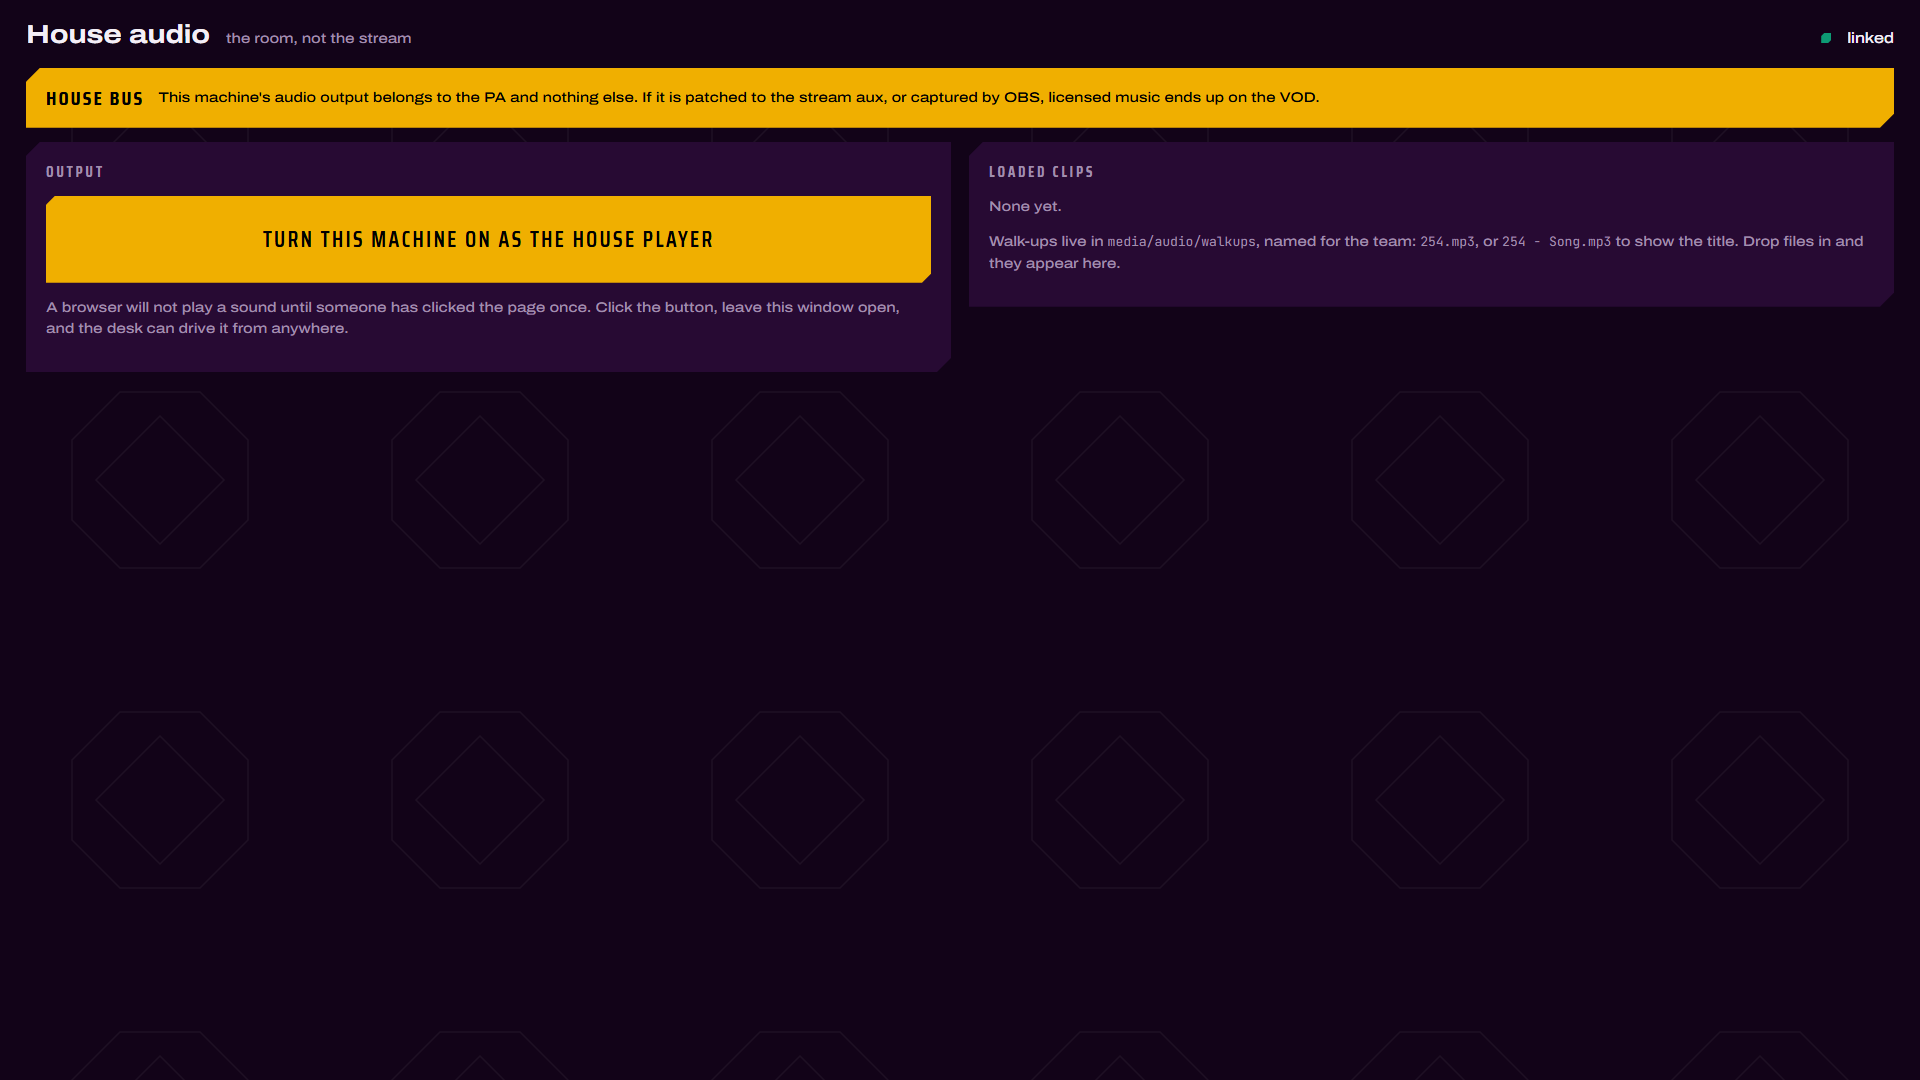
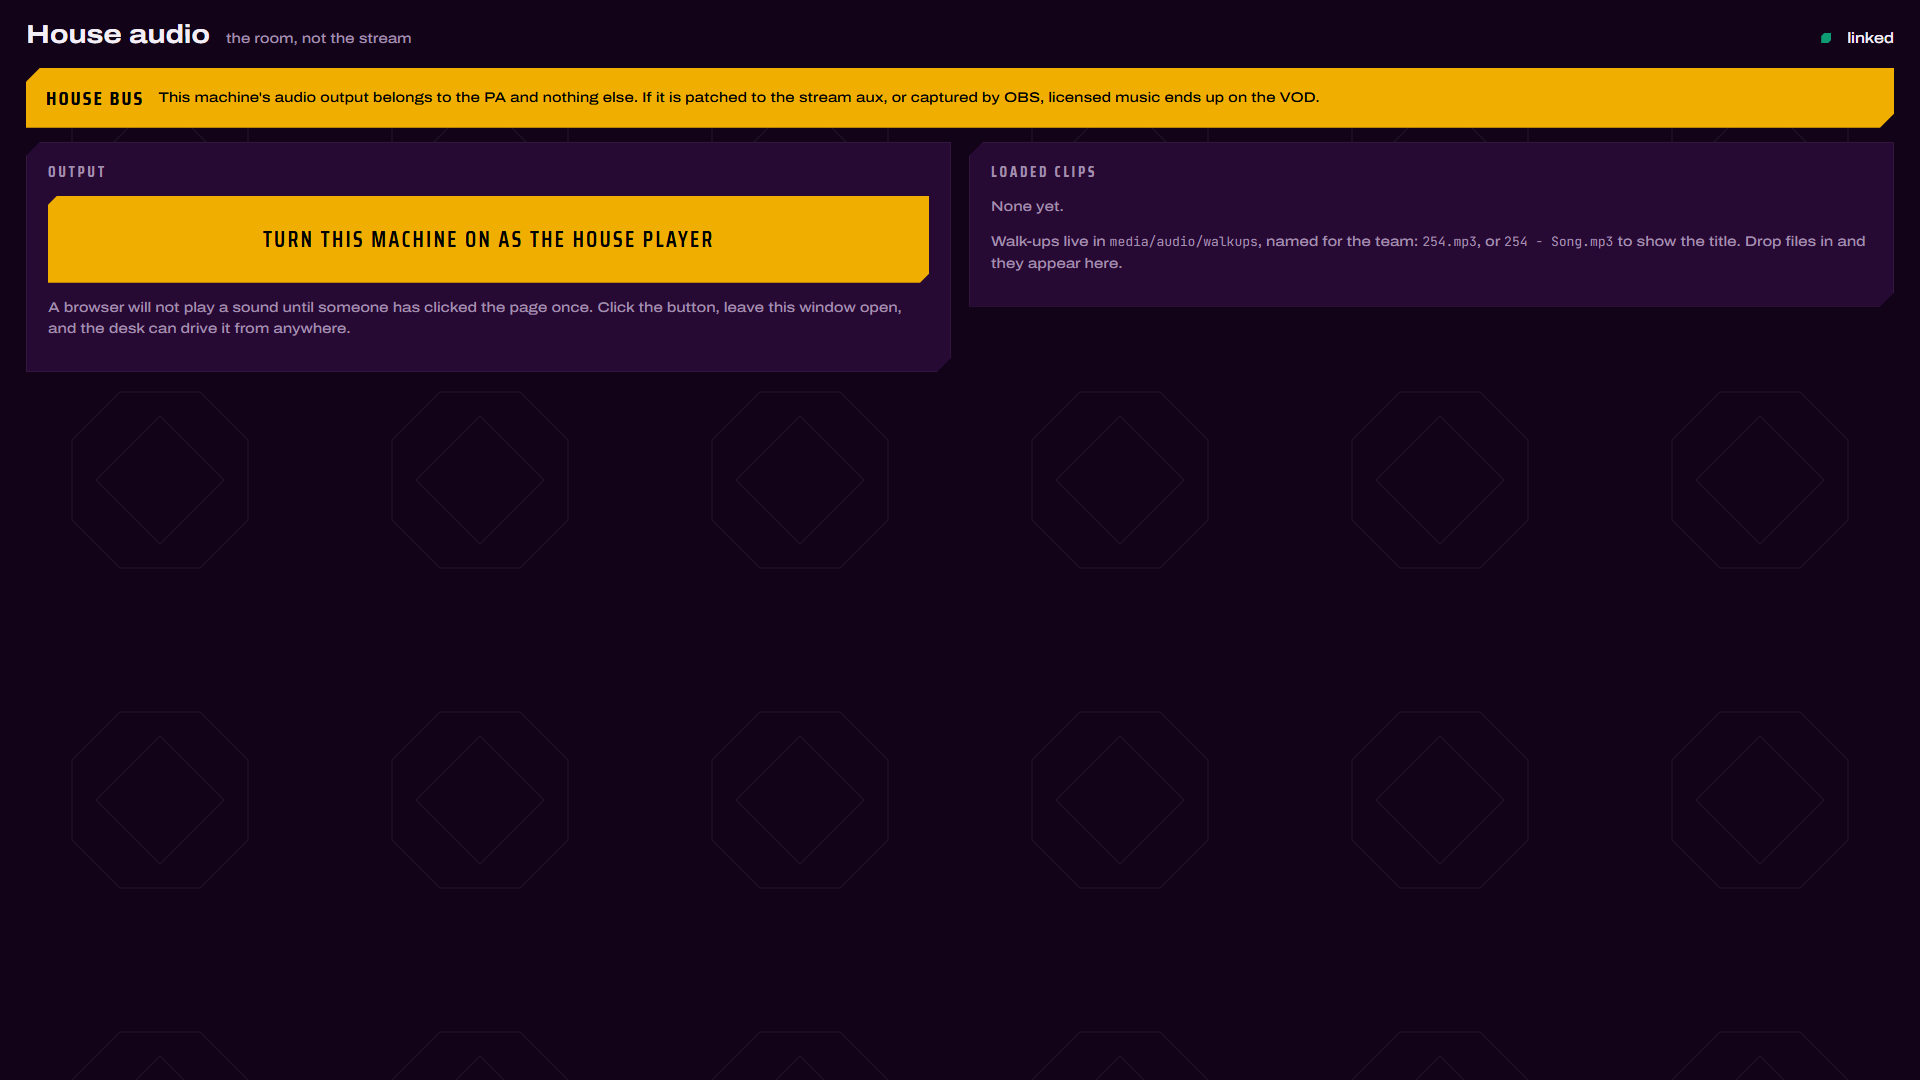
Buttons rest calm and light up on approach; panels get a hairline edge
The premium pass on the console chrome. The default button face was raw
purple-hi, so every secondary control shouted at parity with the gold
primaries, and hover went DARKER, which reads as already-pressed. The
resting face now sits one step above the panel, hover lifts toward the
light, and gold is reserved for primaries, pressed states, and live
chips, which is exactly what makes gold legible as "the one that
matters" on a console with sixty controls.

Sections gain a one-pixel light hairline (the cheapest precision a dark
UI can buy), micro-padding evens out, and operators who ask their OS for
reduced motion get it: console transitions and decorative pulses collapse
to instant, scoped away from the broadcast pages, where motion is
editorial program output.

33 previews re-rendered.

Changed region(s): [[0.5, 0.1528, 0.9688, 0.275], [0.0312, 0.275, 0.4688, 0.3056], [0.0312, 0.1528, 0.0625, 0.1833]]

diff --git a/packages/theme/tokens.css b/packages/theme/tokens.css
@@ -230,7 +230,14 @@
   --rule:           3px solid var(--cg-gold);
   --atmo:           none;
   --tex-perf:       radial-gradient(circle at center, rgba(255,255,255,.03) 1.4px, transparent 1.5px);
-  --btn-hover:      #3A1349;
+  /* Buttons rest CALM and light up on approach. The old face was raw
+     purple-hi (#7B2394): every secondary control shouted at parity with the
+     gold primaries, and hover went DARKER, which reads as already-pressed.
+     Resting face sits one step above the panel; hover lifts toward the
+     light; gold stays reserved for primaries and pressed state, which is
+     what makes it legible as "the one that matters". */
+  --btn-face:       #331040;
+  --btn-hover:      #4B1A5E;
   --focus-ring:     var(--cg-gold-hi);
   /* Error text on console purples. Lightened past the official alliance red
      because #ED1C24 reads 4.1:1 on --surface-raised (and only 2.9:1 on brand
@@ -272,9 +279,27 @@
 :root[data-surface="console"] .wrap { padding: 20px 26px 64px; }
 :root[data-surface="console"] .wrap > header { gap: 16px; margin-bottom: 18px; }
 :root[data-surface="console"] h1 { font-size: 26px; }
-:root[data-surface="console"] section { padding: 18px 20px; margin-bottom: 16px; }
+:root[data-surface="console"] section { padding: 18px 22px; margin-bottom: 16px;
+  /* A one-pixel light hairline instead of relying on fill contrast alone:
+     panel edges stay defined even where two purples sit close, and the line
+     is the cheapest kind of precision a dark UI can buy. */
+  box-shadow: inset 0 0 0 1px rgba(255, 255, 255, .05); }
 :root[data-surface="console"] section h2 { margin: 0 0 12px; }
 :root[data-surface="console"] .row { gap: 10px; }
+
+/* Operators who ask their OS for less motion get it: transitions and the
+   console's decorative pulses collapse to instant. Scoped to the consoles
+   because the broadcast pages are program output, where entrance motion is
+   editorial and the viewer's OS preference cannot reach a Browser Source
+   anyway. */
+@media (prefers-reduced-motion: reduce) {
+  :root[data-surface="console"] *,
+  :root[data-surface="console"] *::before,
+  :root[data-surface="console"] *::after {
+    transition-duration: .01ms !important;
+    animation-duration: .01ms !important;
+  }
+}
 
 :root[data-surface="console"] .hint { font-size: 14px; line-height: 1.55; }
 :root[data-surface="console"] section > h2,
